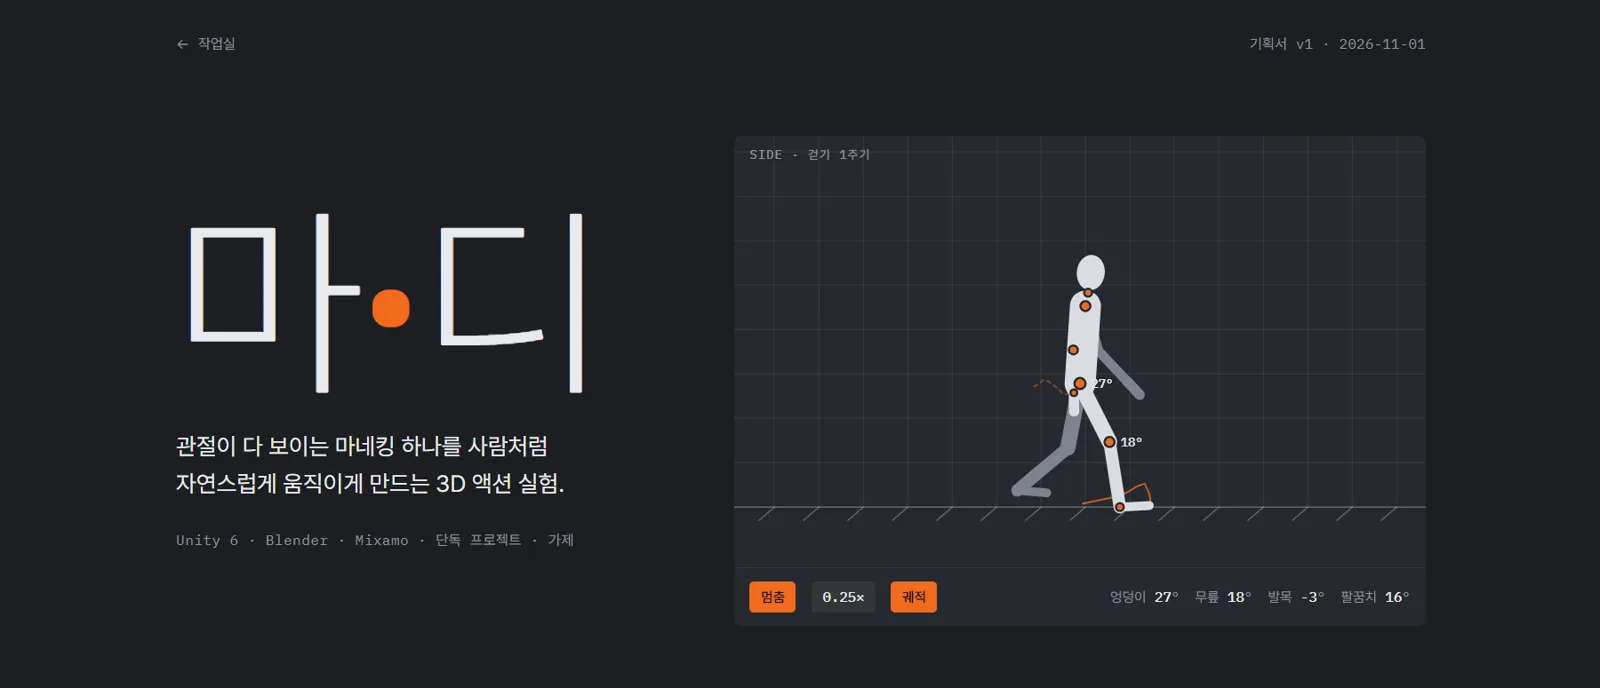
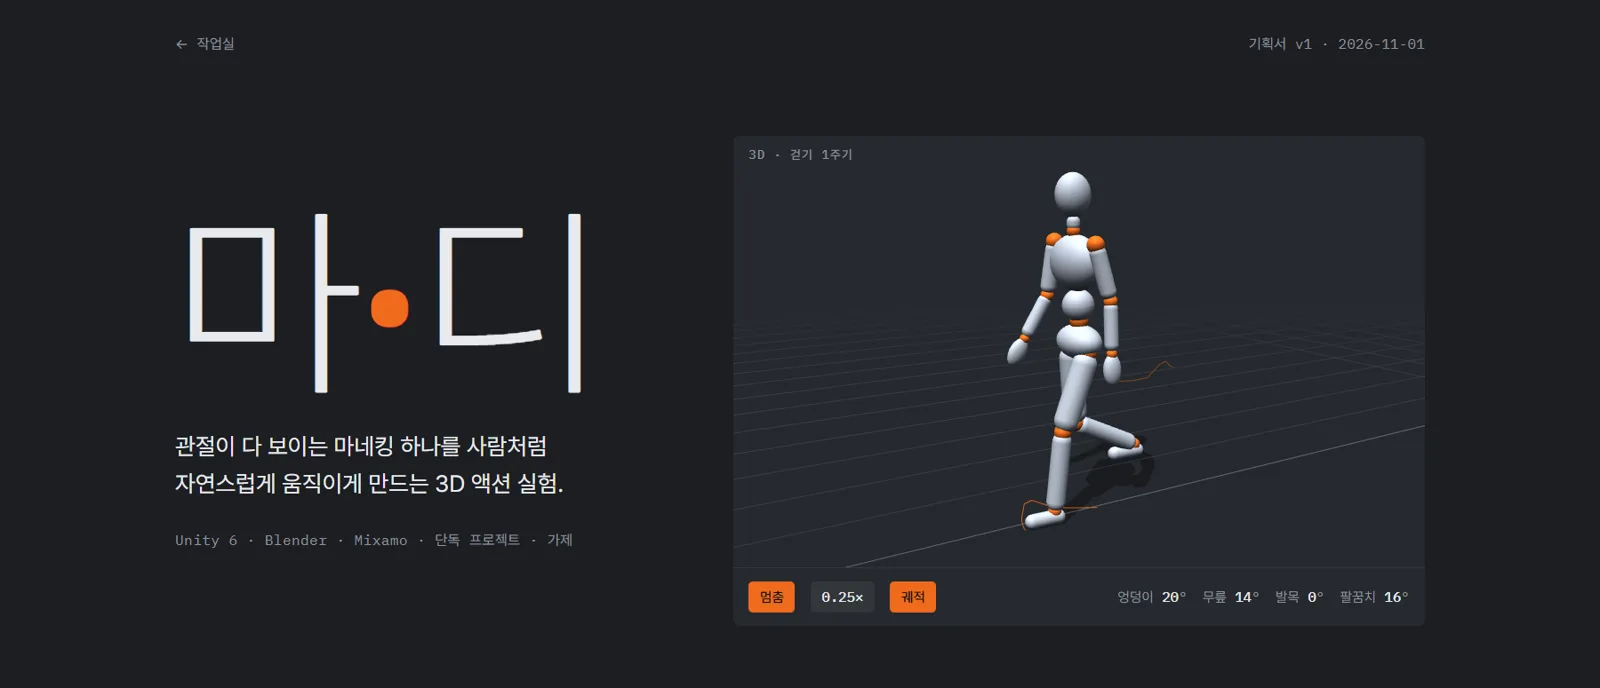
마디: 첫 화면을 돌려 볼 수 있는 3D 마네킹 걷기로 (three.js, 관절 각도·궤적·0.25배속)

diff --git a/mardi/index.html b/mardi/index.html
@@ -43,7 +43,7 @@ p { margin: 0 }
 .lede { margin-top: 28px; font-size: clamp(18px, 1.6vw, 21px); line-height: 1.6; max-width: 30ch; color: var(--on-vp) }
 .tag { margin-top: 22px; font-size: 13px; color: var(--on-vp-soft); letter-spacing: .02em }
 .viewport { position: relative; background: var(--vp-2); border-radius: 6px; overflow: hidden; min-width: 0 }
-.viewport canvas { display: block; width: 100%; aspect-ratio: 16 / 10; max-width: 100% }
+.viewport canvas { display: block; width: 100%; aspect-ratio: 16 / 10; max-width: 100%; cursor: grab; touch-action: pan-y }
 .vp-bar { display: flex; flex-wrap: wrap; align-items: center; gap: 8px 14px; padding: 12px 14px; border-top: 1px solid rgb(255 255 255 / .06); font-size: 12.5px; color: var(--on-vp-soft) }
 .vp-bar button { font: 500 12.5px var(--mono); color: var(--on-vp); background: rgb(255 255 255 / .06); border: 0; border-radius: 4px; padding: 6px 10px; cursor: pointer }
 .vp-bar button[aria-pressed="true"] { background: var(--joint); color: #17120e }
@@ -178,8 +178,8 @@ footer { padding-block: 40px 56px; font-size: 13px; color: var(--muted); border-
         <p class="tag mono">Unity 6 · Blender · Mixamo · 단독 프로젝트 · 가제</p>
       </div>
       <figure class="viewport" style="margin:0">
-        <span class="vp-label">SIDE · 걷기 1주기</span>
-        <canvas id="vp" aria-label="옆에서 본 마네킹이 걷는 모습. 관절 각도가 실시간으로 표시된다." role="img"></canvas>
+        <span class="vp-label">3D · 걷기 1주기</span>
+        <canvas id="vp" aria-label="3D 마네킹이 걷는 모습. 끌어서 돌려 볼 수 있고, 관절 각도가 실시간으로 표시된다." role="img"></canvas>
         <div class="vp-bar">
           <button id="play" type="button" aria-pressed="false">재생</button>
           <button id="slow" type="button" aria-pressed="false">0.25×</button>
@@ -342,6 +342,7 @@ footer { padding-block: 40px 56px; font-size: 13px; color: var(--muted); border-
 
 <footer><div class="wrap">마디 (가제) · 김창식 · 기획서 v1</div></footer>
 
+<script src="https://cdn.jsdelivr.net/npm/three@0.149.0/build/three.min.js"></script>
 <script>
 // 가동 범위 막대: 축 −90° ~ 180°
 const ROM = [["어깨", -60, 180], ["팔꿈치", 0, 150], ["손목", -70, 80], ["엉덩이", -30, 120], ["무릎", 0, 135], ["발목", -20, 50]];
@@ -351,104 +352,135 @@ document.getElementById("bars").innerHTML = ROM.map(([n, a, b]) =>
   (a < 0 ? `<em style="left:calc(${pct(a)}% - 6px);transform:translateX(-100%)">${-a}</em>` : "") +
   `<em style="left:calc(${pct(b)}% + 6px)">${b}</em></div></div>`).join("");
 
-// 옆에서 본 걷기: 각도로 관절을 이어 그리는 순운동학
-const cv = document.getElementById("vp"), ctx = cv.getContext("2d");
-const D = Math.PI / 180, pos = x => Math.max(0, x);
-let W = 0, H = 0, S = 1, phase = 0.6, speed = 1, playing = false, showTrail = true, travel = 0, last = 0;
-let prevX = [null, null], trail = [];
+// 3D 마네킹 걷기: 각도로 관절을 돌리는 순운동학 (조각마다 뼈 하나)
+(function () {
+  const cv = document.getElementById("vp");
+  if (!window.THREE) return;
+  const T = THREE, D = Math.PI / 180, pos = x => Math.max(0, x);
+  const renderer = new T.WebGLRenderer({ canvas: cv, antialias: true });
+  renderer.setPixelRatio(Math.min(2, window.devicePixelRatio || 1));
+  renderer.shadowMap.enabled = true; renderer.shadowMap.type = T.PCFSoftShadowMap;
+  const scene = new T.Scene(); scene.background = new T.Color(0x26292e); scene.fog = new T.Fog(0x26292e, 6, 13);
+  const cam = new T.PerspectiveCamera(30, 1.6, 0.1, 40);
+  scene.add(new T.HemisphereLight(0xe8eef6, 0x2a2d33, 0.7));
+  const sun = new T.DirectionalLight(0xffffff, 0.75); sun.position.set(2.5, 5, 3); sun.castShadow = true;
+  sun.shadow.mapSize.set(1024, 1024); Object.assign(sun.shadow.camera, { left: -2, right: 2, top: 3, bottom: -1, near: 1, far: 12 });
+  scene.add(sun);
+  const floor = new T.Mesh(new T.PlaneGeometry(30, 30), new T.ShadowMaterial({ opacity: 0.35 }));
+  floor.rotation.x = -Math.PI / 2; floor.receiveShadow = true; scene.add(floor);
+  const grid = new T.GridHelper(16, 32, 0x626873, 0x3a3e45); scene.add(grid);
 
-function size() {
-  const r = cv.getBoundingClientRect(), d = window.devicePixelRatio || 1;
-  cv.width = r.width * d; cv.height = r.height * d; ctx.setTransform(d, 0, 0, d, 0, 0);
-  W = r.width; H = r.height; S = H * 0.62;
-}
-// 한 다리의 각도(도). φ: 0~2π 걷기 주기
-function leg(p) {
-  const hip = 8 + 22 * Math.sin(p);
-  const knee = 4 + 60 * Math.pow(pos(Math.cos(p + 0.35)), 2.2) + 14 * Math.pow(pos(Math.cos(p - 2.2)), 6);
-  const toeOff = 22 * Math.pow(pos(Math.cos(p + 1.7)), 6), heel = 10 * Math.pow(pos(Math.cos(p - 1.5)), 6);
-  return { hip, knee, shin: hip - knee, plantar: toeOff - heel };
-}
-const dir = (a, l) => [Math.sin(a * D) * l * S, Math.cos(a * D) * l * S];
-function pose(p) {
-  const out = { legs: [], arms: [] };
-  for (const k of [0, 1]) {
-    const q = p + k * Math.PI, L = leg(q);
-    const [kx, ky] = dir(L.hip, .245), [ax, ay] = dir(L.shin, .246);
-    const [fx, fy] = dir(90 - L.plantar, .11);
-    out.legs.push({ L, knee: [kx, ky], ankle: [kx + ax, ky + ay], toe: [kx + ax + fx, ky + ay + fy] });
-    const sh = -18 * Math.sin(q), el = 16 + 14 * pos(-Math.sin(q));
-    const [ux, uy] = dir(sh, .17), [lx, ly] = dir(sh + el, .16), [hx, hy] = dir(sh + el, .07);
-    out.arms.push({ sh, el, elbow: [ux, uy], wrist: [ux + lx, uy + ly], hand: [ux + lx + hx, uy + ly + hy] });
+  const wood = new T.MeshStandardMaterial({ color: 0xb9c0ca, roughness: 0.6 });
+  const orange = new T.MeshStandardMaterial({ color: 0xf06a1d, roughness: 0.4 });
+  const node = (p, x, y, z) => { const g = new T.Group(); g.position.set(x, y, z); p.add(g); return g; };
+  const mesh = (p, geo, mat, x, y, z) => { const m = new T.Mesh(geo, mat); m.position.set(x, y, z); m.castShadow = true; p.add(m); return m; };
+  const seg = (p, len, r, up) => mesh(p, new T.CapsuleGeometry(r, Math.max(0.001, len - 2 * r), 6, 16), wood, 0, (up ? 1 : -1) * len / 2, 0);
+  const jnt = (p, r) => mesh(p, new T.SphereGeometry(r, 20, 14), orange, 0, 0, 0);
+  const blob = (p, r, sx, sy, sz, y) => { const m = mesh(p, new T.SphereGeometry(r, 24, 16), wood, 0, y, 0); m.scale.set(sx, sy, sz); return m; };
+
+  // 몸: 캐릭터는 +z를 바라봄, 왼쪽이 +x
+  const root = node(scene, 0, 0, 0);
+  const hips = node(root, 0, 0.95, 0);
+  blob(hips, 0.1, 1.6, 0.9, 1.05, -0.02);
+  const spine = node(hips, 0, 0.09, 0); jnt(spine, 0.05); seg(spine, 0.16, 0.085, true);
+  const chest = node(spine, 0, 0.17, 0); blob(chest, 0.1, 1.75, 1.45, 1.1, 0.13);
+  const neck = node(chest, 0, 0.29, 0); jnt(neck, 0.035); seg(neck, 0.08, 0.035, true);
+  const head = node(neck, 0, 0.08, 0); blob(head, 0.1, 0.85, 1.12, 0.95, 0.1);
+  const legs = [], arms = [];
+  for (const s of [1, -1]) {
+    const hip = node(hips, 0.095 * s, -0.06, 0); jnt(hip, 0.05); seg(hip, 0.43, 0.065);
+    const knee = node(hip, 0, -0.43, 0); jnt(knee, 0.045); seg(knee, 0.42, 0.05);
+    const ankle = node(knee, 0, -0.42, 0); jnt(ankle, 0.035);
+    const foot = mesh(ankle, new T.CapsuleGeometry(0.038, 0.15, 6, 12), wood, 0, -0.035, 0.055); foot.rotation.x = Math.PI / 2;
+    legs.push({ hip, knee, ankle, toe: node(ankle, 0, -0.073, 0.17), heel: node(ankle, 0, -0.073, -0.05) });
+    const sh = node(chest, 0.19 * s, 0.23, 0); jnt(sh, 0.045); seg(sh, 0.28, 0.043);
+    const el = node(sh, 0, -0.29, 0); jnt(el, 0.036); seg(el, 0.25, 0.037);
+    const wr = node(el, 0, -0.26, 0); jnt(wr, 0.027); blob(wr, 0.05, 0.7, 1.6, 1, -0.08);
+    arms.push({ sh, el, wr, tip: node(wr, 0, -0.14, 0), s });
   }
-  return out;
-}
-function seg(a, b, w, col) { ctx.strokeStyle = col; ctx.lineWidth = w; ctx.lineCap = "round"; ctx.beginPath(); ctx.moveTo(a[0], a[1]); ctx.lineTo(b[0], b[1]); ctx.stroke(); }
-function joint(p, r) { ctx.fillStyle = "#f06a1d"; ctx.strokeStyle = "#26292e"; ctx.lineWidth = 2; ctx.beginPath(); ctx.arc(p[0], p[1], r, 0, 7); ctx.fill(); ctx.stroke(); }
 
-function frame(t) {
-  const dt = last ? Math.min(0.05, (t - last) / 1000) : 0; last = t;
-  if (playing) phase = (phase + dt * speed * 2 * Math.PI / 1.1) % (2 * Math.PI);
-  const P = pose(phase), gy = H * 0.86, cx = W * 0.5;
-  // 가장 낮은 발 끝이 바닥에 닿도록 골반 높이 결정
-  const low = Math.max(...P.legs.flatMap(l => [l.ankle[1], l.toe[1]]));
-  const hipY = gy - low;
-  const stance = (Math.max(P.legs[0].ankle[1], P.legs[0].toe[1]) >= Math.max(P.legs[1].ankle[1], P.legs[1].toe[1])) ? 0 : 1;
-  const sx = P.legs[stance].ankle[0];
-  if (playing && prevX[stance] !== null) travel += prevX[stance] - sx;
-  prevX = [P.legs[0].ankle[0], P.legs[1].ankle[0]];
+  // 걷기 각도(도). 한 주기 φ: 0~2π
+  function leg(p) {
+    const hip = 8 + 22 * Math.sin(p);
+    const knee = 4 + 60 * Math.pow(pos(Math.cos(p + 0.35)), 2.2) + 14 * Math.pow(pos(Math.cos(p - 2.2)), 6);
+    const plantar = 22 * Math.pow(pos(Math.cos(p + 1.7)), 6) - 10 * Math.pow(pos(Math.cos(p - 1.5)), 6);
+    return { hip, knee, plantar };
+  }
 
-  ctx.clearRect(0, 0, W, H);
-  ctx.strokeStyle = "rgb(220 226 234 / .07)"; ctx.lineWidth = 1;
-  const step = 40, off = ((-travel % step) + step) % step;
-  for (let x = off; x < W; x += step) { ctx.beginPath(); ctx.moveTo(x, 0); ctx.lineTo(x, gy); ctx.stroke(); }
-  for (let y = gy; y > 0; y -= step) { ctx.beginPath(); ctx.moveTo(0, y); ctx.lineTo(W, y); ctx.stroke(); }
-  ctx.strokeStyle = "rgb(220 226 234 / .35)"; ctx.beginPath(); ctx.moveTo(0, gy); ctx.lineTo(W, gy); ctx.stroke();
-  for (let x = off; x < W; x += step) { ctx.beginPath(); ctx.moveTo(x, gy); ctx.lineTo(x - 14, gy + 12); ctx.stroke(); }
+  // 궤적: 왼발 끝, 왼손 끝
+  const N = 160, trails = [0.85, 0.45].map(o => {
+    const g = new T.BufferGeometry(); g.setAttribute("position", new T.BufferAttribute(new Float32Array(N * 3), 3)); g.setDrawRange(0, 0);
+    const l = new T.Line(g, new T.LineBasicMaterial({ color: 0xf06a1d, transparent: true, opacity: o })); l.frustumCulled = false; scene.add(l); return { l, pts: [] };
+  });
 
-  const hip = [cx, hipY], lean = 4;
-  const shoulder = [cx + Math.sin(lean * D) * .29 * S, hipY - Math.cos(lean * D) * .29 * S];
-  const neck = [shoulder[0] + .01 * S, shoulder[1] - .05 * S], head = [neck[0] + .01 * S, neck[1] - .075 * S];
-  const A = (o, v) => [o[0] + v[0], o[1] + v[1]];
+  let phase = 0.6, speed = 1, playing = false, showTrail = true, travel = 0, last = 0, prevZ = [null, null];
+  let yaw = 0.95, pitch = 0.2, spin = true, drag = null, visible = true;
+  const v = new T.Vector3(), w = new T.Vector3(), target = new T.Vector3(0, 0.88, 0);
+  const rd = ["hip", "knee", "ankle", "elbow"].map(k => document.getElementById("r-" + k));
 
-  // 궤적: 가까운 쪽 발끝·손목을 세계 좌표로 기록
-  const near = 0, Ln = P.legs[near], An = P.arms[near];
-  if (playing) { trail.push([A(hip, Ln.toe), A(shoulder, An.wrist)].map(p => [p[0] + travel, p[1]])); if (trail.length > 160) trail.shift(); }
-  if (showTrail && trail.length > 1) {
-    for (const k of [0, 1]) {
-      ctx.strokeStyle = k ? "rgb(240 106 29 / .45)" : "rgb(240 106 29 / .8)"; ctx.lineWidth = 1.6; ctx.setLineDash(k ? [3, 4] : []);
-      ctx.beginPath(); trail.forEach((p, i) => { const x = p[k][0] - travel, y = p[k][1]; i ? ctx.lineTo(x, y) : ctx.moveTo(x, y); }); ctx.stroke();
+  function pose() {
+    for (let k = 0; k < 2; k++) {
+      const q = phase + k * Math.PI, L = leg(q), g = legs[k], a = arms[k];
+      g.hip.rotation.x = -L.hip * D; g.knee.rotation.x = L.knee * D; g.ankle.rotation.x = (L.hip - L.knee + L.plantar) * D;
+      const sh = -18 * Math.sin(q), el = 16 + 14 * pos(-Math.sin(q));
+      a.sh.rotation.set(-sh * D, 0, 0.1 * a.s); a.el.rotation.x = -el * D;
+      if (k === 0) { rd[0].textContent = Math.round(L.hip); rd[1].textContent = Math.round(L.knee); rd[2].textContent = Math.round(L.plantar); rd[3].textContent = Math.round(el); }
     }
-    ctx.setLineDash([]);
+    hips.rotation.y = -5 * D * Math.sin(phase); chest.rotation.y = 8 * D * Math.sin(phase);
+    spine.rotation.x = 4 * D; neck.rotation.x = -3 * D;
+    // 가장 낮은 발 끝이 바닥에 닿게
+    root.position.y = 0; root.updateMatrixWorld(true);
+    const low = legs.map(g => Math.min(v.setFromMatrixPosition(g.toe.matrixWorld).y, w.setFromMatrixPosition(g.heel.matrixWorld).y));
+    root.position.y = -Math.min(low[0], low[1]); root.updateMatrixWorld(true);
+    const st = low[0] <= low[1] ? 0 : 1;
+    const z = legs.map(g => v.setFromMatrixPosition(g.ankle.matrixWorld).z);
+    if (playing && prevZ[st] !== null) travel += prevZ[st] - z[st];
+    prevZ = z;
+    grid.position.z = -(travel % 0.5);
+  }
+  function trail() {
+    [legs[0].toe, arms[0].tip].forEach((n, i) => {
+      const t = trails[i]; v.setFromMatrixPosition(n.matrixWorld);
+      if (playing) { t.pts.push([v.x, v.y, v.z + travel]); if (t.pts.length > N) t.pts.shift(); }
+      const arr = t.l.geometry.attributes.position.array;
+      t.pts.forEach((p, j) => { arr[j * 3] = p[0]; arr[j * 3 + 1] = p[1]; arr[j * 3 + 2] = p[2] - travel; });
+      t.l.geometry.attributes.position.needsUpdate = true; t.l.geometry.setDrawRange(0, t.pts.length); t.l.visible = showTrail;
+    });
+  }
+  function size() {
+    const r = cv.getBoundingClientRect(); if (!r.width) return;
+    renderer.setSize(r.width, r.height, false); cam.aspect = r.width / r.height; cam.updateProjectionMatrix();
+  }
+  function frame(t) {
+    const dt = last ? Math.min(0.05, (t - last) / 1000) : 0; last = t;
+    if (visible) {
+      if (playing) phase = (phase + dt * speed * 2 * Math.PI / 1.1) % (2 * Math.PI);
+      if (spin && playing) yaw += dt * 0.18;
+      pose(); trail();
+      const d = 4.2; cam.position.set(target.x + d * Math.cos(pitch) * Math.sin(yaw), target.y + d * Math.sin(pitch), target.z + d * Math.cos(pitch) * Math.cos(yaw));
+      cam.lookAt(target); renderer.render(scene, cam);
+    }
+    requestAnimationFrame(frame);
   }
 
-  const far = "#7d838c", wood = "#d9dde3", w = S * .055;
-  const drawLeg = (l, c) => { const k = A(hip, l.knee), a = A(hip, l.ankle), t2 = A(hip, l.toe); seg(hip, k, w * 1.05, c); seg(k, a, w * .85, c); seg(a, t2, w * .6, c); return [k, a]; };
-  const drawArm = (a, c) => { const e = A(shoulder, a.elbow), r = A(shoulder, a.wrist), h = A(shoulder, a.hand); seg(shoulder, e, w * .75, c); seg(e, r, w * .65, c); seg(r, h, w * .7, c); return [e, r]; };
-  drawArm(P.arms[1], far); drawLeg(P.legs[1], far);
-  seg(hip, shoulder, w * 2.1, wood); seg(shoulder, neck, w * .55, wood);
-  ctx.fillStyle = wood; ctx.beginPath(); ctx.ellipse(head[0], head[1], S * .052, S * .066, 0.1, 0, 7); ctx.fill();
-  const [kn, an] = drawLeg(Ln, wood); const [el, wr] = drawArm(An, wood);
-  joint(hip, 5); joint(shoulder, 4.5); joint(neck, 3.5); joint(kn, 4.5); joint(an, 3.5); joint(el, 4); joint(wr, 3);
+  cv.addEventListener("pointerdown", e => { drag = [e.clientX, e.clientY]; spin = false; cv.setPointerCapture(e.pointerId); cv.style.cursor = "grabbing"; });
+  cv.addEventListener("pointermove", e => {
+    if (!drag) return;
+    yaw -= (e.clientX - drag[0]) * 0.008; pitch = Math.min(1.2, Math.max(0.02, pitch + (e.clientY - drag[1]) * 0.006)); drag = [e.clientX, e.clientY];
+  });
+  const end = () => { drag = null; cv.style.cursor = ""; };
+  cv.addEventListener("pointerup", end); cv.addEventListener("pointercancel", end);
+  new IntersectionObserver(es => { visible = es[0].isIntersecting; }).observe(cv);
 
-  // 무릎 각도 표시
-  ctx.fillStyle = "#e8eaed"; ctx.font = "500 11px 'IBM Plex Mono', monospace";
-  ctx.fillText(Math.round(Ln.L.knee) + "°", kn[0] + 10, kn[1] + 4);
-  ctx.fillText(Math.round(Ln.L.hip) + "°", hip[0] + 10, hip[1] + 4);
-
-  rd.hip.textContent = Math.round(Ln.L.hip); rd.knee.textContent = Math.round(Ln.L.knee);
-  rd.ankle.textContent = Math.round(Ln.L.plantar); rd.elbow.textContent = Math.round(An.el);
+  const bPlay = document.getElementById("play"), bSlow = document.getElementById("slow"), bTrail = document.getElementById("trail");
+  function setPlay(on) { playing = on; bPlay.textContent = on ? "멈춤" : "재생"; bPlay.setAttribute("aria-pressed", on); }
+  bPlay.onclick = () => setPlay(!playing);
+  bSlow.onclick = () => { speed = speed === 1 ? 0.25 : 1; bSlow.setAttribute("aria-pressed", speed !== 1); };
+  bTrail.onclick = () => { showTrail = !showTrail; bTrail.setAttribute("aria-pressed", showTrail); };
+  size(); new ResizeObserver(size).observe(cv);
+  if (!matchMedia("(prefers-reduced-motion: reduce)").matches) setPlay(true);
   requestAnimationFrame(frame);
-}
-const rd = { hip: document.getElementById("r-hip"), knee: document.getElementById("r-knee"), ankle: document.getElementById("r-ankle"), elbow: document.getElementById("r-elbow") };
-const bPlay = document.getElementById("play"), bSlow = document.getElementById("slow"), bTrail = document.getElementById("trail");
-function setPlay(v) { playing = v; bPlay.textContent = v ? "멈춤" : "재생"; bPlay.setAttribute("aria-pressed", v); }
-bPlay.onclick = () => setPlay(!playing);
-bSlow.onclick = () => { speed = speed === 1 ? .25 : 1; bSlow.setAttribute("aria-pressed", speed !== 1); };
-bTrail.onclick = () => { showTrail = !showTrail; bTrail.setAttribute("aria-pressed", showTrail); };
-size(); new ResizeObserver(size).observe(cv);
-if (!matchMedia("(prefers-reduced-motion: reduce)").matches) setPlay(true);
-requestAnimationFrame(frame);
+})();
 </script>
 </body>
 </html>
